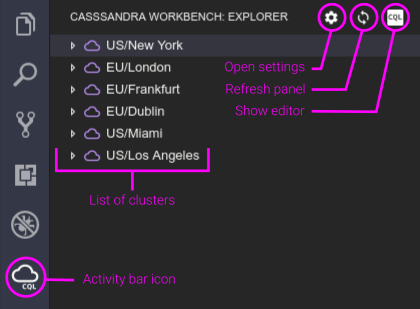
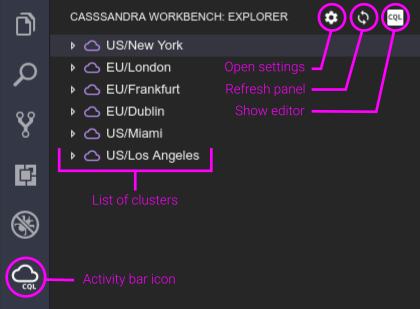
update

Changed region(s): [[0.2167, 0.5534, 0.4333, 0.6699], [0.4952, 0.466, 0.5262, 0.5534], [0.1238, 0.466, 0.1548, 0.5534]]

diff --git a/README.md b/README.md
@@ -15,7 +15,7 @@ Switch to `Cassandra worbench` panel by clicking icon.
 
 
 <p align="center">
-   <img src="https://raw.githubusercontent.com/kdcro101/vscode-cassandra/master/media/res/panel-and-settings.png?12311" />
+   <img src="https://raw.githubusercontent.com/kdcro101/vscode-cassandra/master/media/res/panel-and-settings.png?123112" />
 </p>
 
 ## Features
